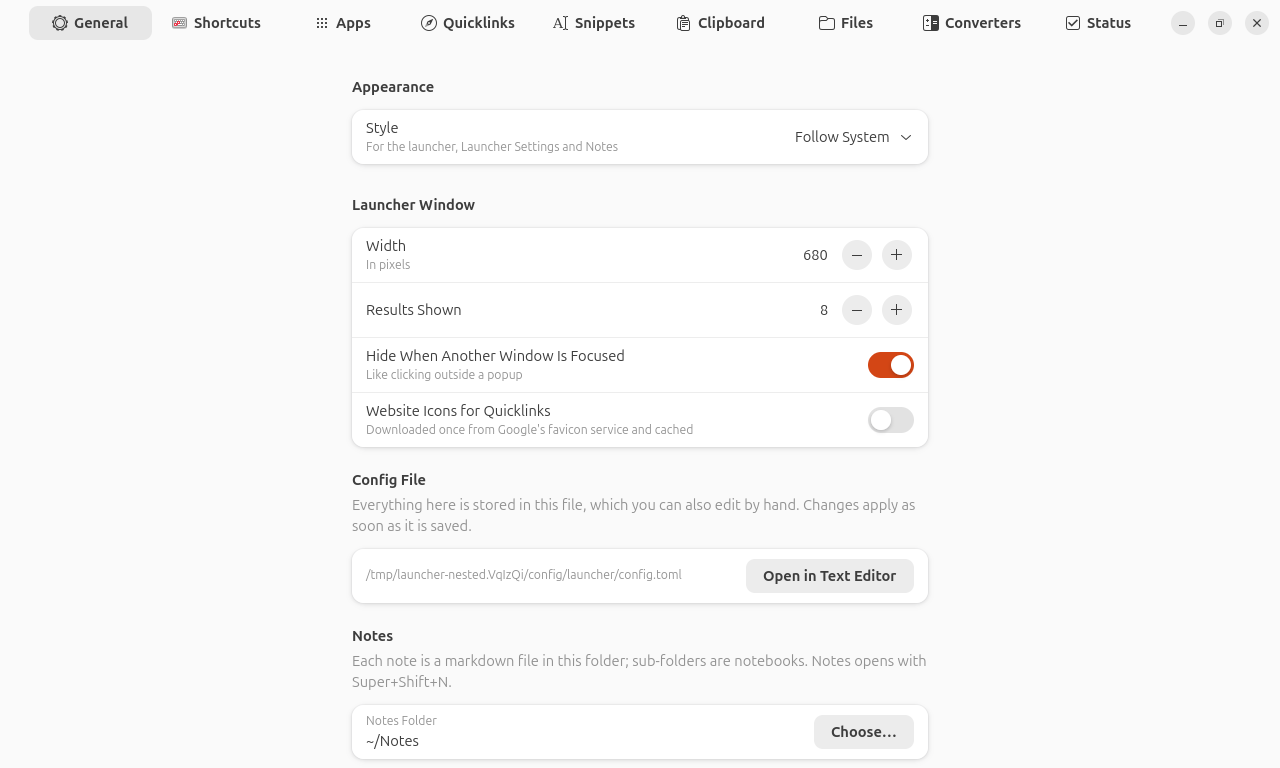
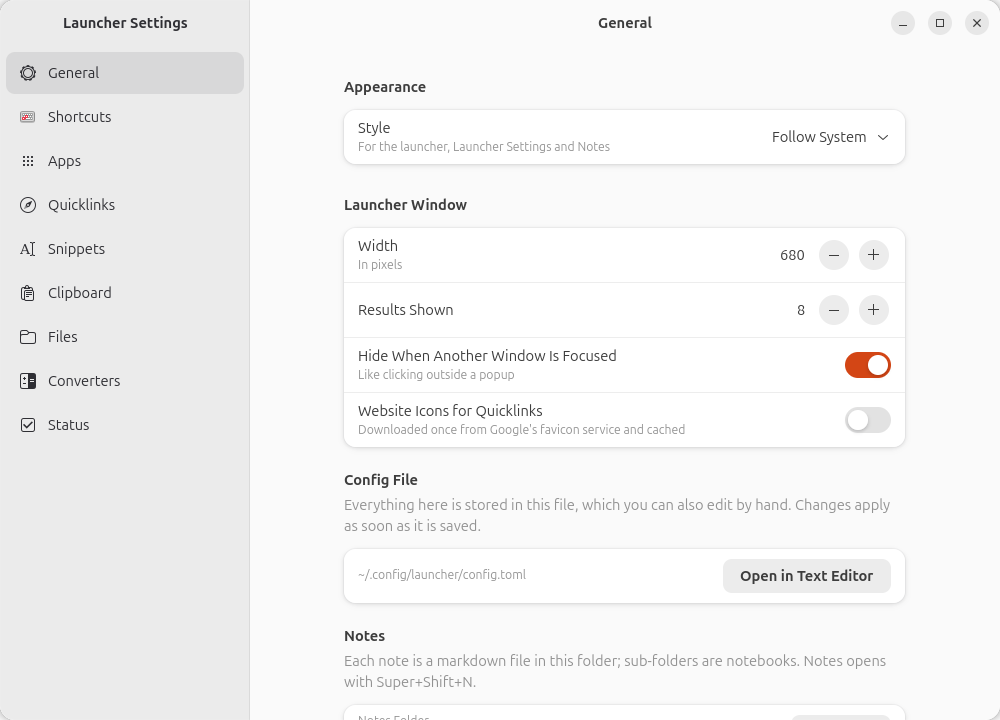
Settings: pages in a sidebar instead of header tabs
Nine page names no longer fitted in the header. The pages are now in a
sidebar (NavigationSplitView + ViewSwitcherSidebar), which becomes a list
leading to one page at a time on a narrow window. README screenshots
regenerated.

diff --git a/src/launcher/settings/window.py b/src/launcher/settings/window.py
@@ -52,7 +52,7 @@ APPEARANCE_LABELS = {"system": "Follow System", "light": "Light", "dark": "Dark"
 class SettingsWindow(Adw.ApplicationWindow):
     def __init__(self, app: Adw.Application) -> None:
         super().__init__(application=app, title="Launcher Settings")
-        self.set_default_size(1140, 720)  # wide enough for all 8 page names
+        self.set_default_size(1000, 720)
         self.writer = ConfigWriter(paths.config_file())
         self.config = Config()
         self._apps: list[AppEntry] | None = None
@@ -60,18 +60,29 @@ class SettingsWindow(Adw.ApplicationWindow):
         self._written: dict[str, float] = {}  # file name -> mtime of our last write
         self._reload_source = 0
 
+        # Pages in a sidebar (like GNOME Settings); below 720sp wide it becomes a list
+        # that leads to one page at a time.
         self._banner = Adw.Banner(button_label="Open Config File")
         self._banner.connect("button-clicked", lambda _b: self.open_config_file())
         self._stack = Adw.ViewStack()
-        header = Adw.HeaderBar(
-            title_widget=Adw.ViewSwitcher(stack=self._stack, policy=Adw.ViewSwitcherPolicy.WIDE)
-        )
-        toolbar = Adw.ToolbarView()
-        toolbar.add_top_bar(header)
-        toolbar.add_top_bar(self._banner)
-        toolbar.set_content(self._stack)
-        self._toasts = Adw.ToastOverlay(child=toolbar)
+        self._split = Adw.NavigationSplitView(min_sidebar_width=200, max_sidebar_width=260)
+        self._sidebar = Adw.ViewSwitcherSidebar(stack=self._stack)
+        self._sidebar.connect("activated", lambda _s: self._split.set_show_content(True))
+        sidebar_view = Adw.ToolbarView(content=self._sidebar)
+        sidebar_view.add_top_bar(Adw.HeaderBar())
+        self._split.set_sidebar(Adw.NavigationPage(title="Launcher Settings", child=sidebar_view))
+        content_view = Adw.ToolbarView(content=self._stack)
+        content_view.add_top_bar(Adw.HeaderBar())
+        content_view.add_top_bar(self._banner)
+        self._content_page = Adw.NavigationPage(title="General", child=content_view)
+        self._split.set_content(self._content_page)
+        self._stack.connect("notify::visible-child", lambda *_a: self._on_page_changed())
+        self._toasts = Adw.ToastOverlay(child=self._split)
         self.set_content(self._toasts)
+        narrow = Adw.Breakpoint.new(Adw.BreakpointCondition.parse("max-width: 720sp"))
+        narrow.add_setter(self._split, "collapsed", True)
+        narrow.add_setter(self._sidebar, "mode", Adw.SidebarMode.PAGE)
+        self.add_breakpoint(narrow)
 
         self._pages = [
             GeneralPage(self),
@@ -129,6 +140,11 @@ class SettingsWindow(Adw.ApplicationWindow):
             self.toast(f"Not saved: {error}")
             self._refresh_pages()  # put the controls back to what the file says
 
+    def _on_page_changed(self) -> None:
+        page = self._stack.get_visible_child()
+        if page is not None:
+            self._content_page.set_title(page.get_title())
+
     def stack_page(self, page: Gtk.Widget) -> Adw.ViewStackPage | None:
         return self._stack.get_page(page)
 
@@ -148,6 +164,7 @@ class SettingsWindow(Adw.ApplicationWindow):
         kind, _, key = item.partition(":")
 
         def show() -> bool:
+            self._split.set_show_content(True)  # a narrow window shows one page at a time
             if kind == "status":
                 self._stack.set_visible_child_name("status")
             elif kind == "app":

diff --git a/tools/nested_status_test.py b/tools/nested_status_test.py
@@ -126,6 +126,10 @@ def main() -> int:
     pump(0.3)
     stack = window._stack
     check("--edit status opens the Status page", stack.get_visible_child_name() == "status")
+    check("…titled Status", window._content_page.get_title() == "Status")
+    names = [p.get_name() for p in stack.get_pages()]
+    check("the sidebar lists every page", len(names) == 9 and names[-1] == "status", repr(names))
+    check("…side by side with the page", not window._split.get_collapsed())
     page = stack.get_visible_child()
     check("the page checks when shown", wait(lambda: bool(page.checks), 10))
     row = rows(page).get("Helper extension")
@@ -185,6 +189,17 @@ def main() -> int:
     labels["Clear"].emit("clicked")
     pump(0.2)
     check("Clear removes it", not group.get_visible() and crash.load() is None)
+
+    # A narrow window: the sidebar becomes a list that leads to one page at a time.
+    window.set_default_size(480, 700)
+    check("a narrow window collapses the sidebar", wait(window._split.get_collapsed, 3))
+    window._split.set_show_content(False)
+    window.open_item("status")
+    pump(0.3)
+    check("…and --edit status still shows the page", window._split.get_show_content())
+    window._split.set_show_content(False)
+    window._sidebar.emit("activated")
+    check("choosing a page in the list opens it", window._split.get_show_content())
 
     window.close()
     pump(0.3)

diff --git a/tools/nested_screenshots.py b/tools/nested_screenshots.py
@@ -34,6 +34,11 @@ OUT = Path(sys.argv[1]) if len(sys.argv) > 1 else ROOT / "docs" / "screenshots"
 # A made-up home, so file search shows "~/Documents/…" rather than a temporary path.
 HOME = Path(os.environ["XDG_DATA_HOME"]).parent / "home"
 os.environ["HOME"] = str(HOME)  # for this process (Notes, Settings) and the daemon
+# The session's config folder, reached as ~/.config so Settings shows that path.
+HOME.mkdir(parents=True, exist_ok=True)
+if not (HOME / ".config").exists():
+    (HOME / ".config").symlink_to(os.environ["XDG_CONFIG_HOME"])
+os.environ["XDG_CONFIG_HOME"] = str(HOME / ".config")
 NOTES = HOME / "Notes"
 FILES = HOME / "Documents"
 

diff --git a/src/launcher/notes/app.py b/src/launcher/notes/app.py
@@ -21,7 +21,6 @@ from .. import NOTES_APP_ID  # noqa: E402
 log = logging.getLogger(__name__)
 
 
-
 class NotesApp(Adw.Application):
     """Once open, Notes keeps running with its window hidden, so it comes back at once.
 

diff --git a/PLAN.md b/PLAN.md
@@ -214,6 +214,7 @@ Shortcuts are registered by `launcher install-shortcuts`, which writes GNOME cus
 
 ### 4.1c Launcher Settings and hotkeys (built 2026-09-24, pulled forward from M3/M6)
 - **Launcher Settings** (`launcher --settings`, "Launcher Settings" in the app grid or the launcher's results) is a separate libadwaita process with pages General, Shortcuts, Apps, Quicklinks, Snippets, Clipboard, Files and Converters. A bug in it can't crash the launcher, and a second invocation goes to the open window.
+- **Layout** (changed 2026-09-29): the pages (now nine, with Status) are in a sidebar (`Adw.NavigationSplitView` + `Adw.ViewSwitcherSidebar`, like GNOME Settings) instead of header tabs, which no longer fitted; the header shows the page's title. Below 720sp wide the sidebar becomes a list leading to one page at a time; `--edit` jumps straight to the page. Checked by `tools/nested_status_test.py`.
 - **Ctrl+E** on an app, quicklink or fallback search in the launcher opens Settings at that item's alias/hotkey dialog.
 - **Safe writes** (`config_writer.py`): every change re-reads `config.toml`, edits it with tomlkit (comments and layout kept), validates the whole result with the launcher's own parser, and only then replaces the file in one step. If a change would make the config invalid, it is refused and nothing is written. If the file was hand-edited into an invalid state, Settings pauses editing and shows why, instead of overwriting it.
 - **Config format:** `[shortcuts]` (launcher, files, clipboard, snippets), `[apps."<desktop id>"]` with `alias`/`hotkey` (replaces `[aliases]`), and `hotkey` on `[[quicklink]]`. Hotkeys must use Super, Ctrl or Alt (or be F1–F24), and must be unique across the config; duplicate aliases and quicklink names are errors.
